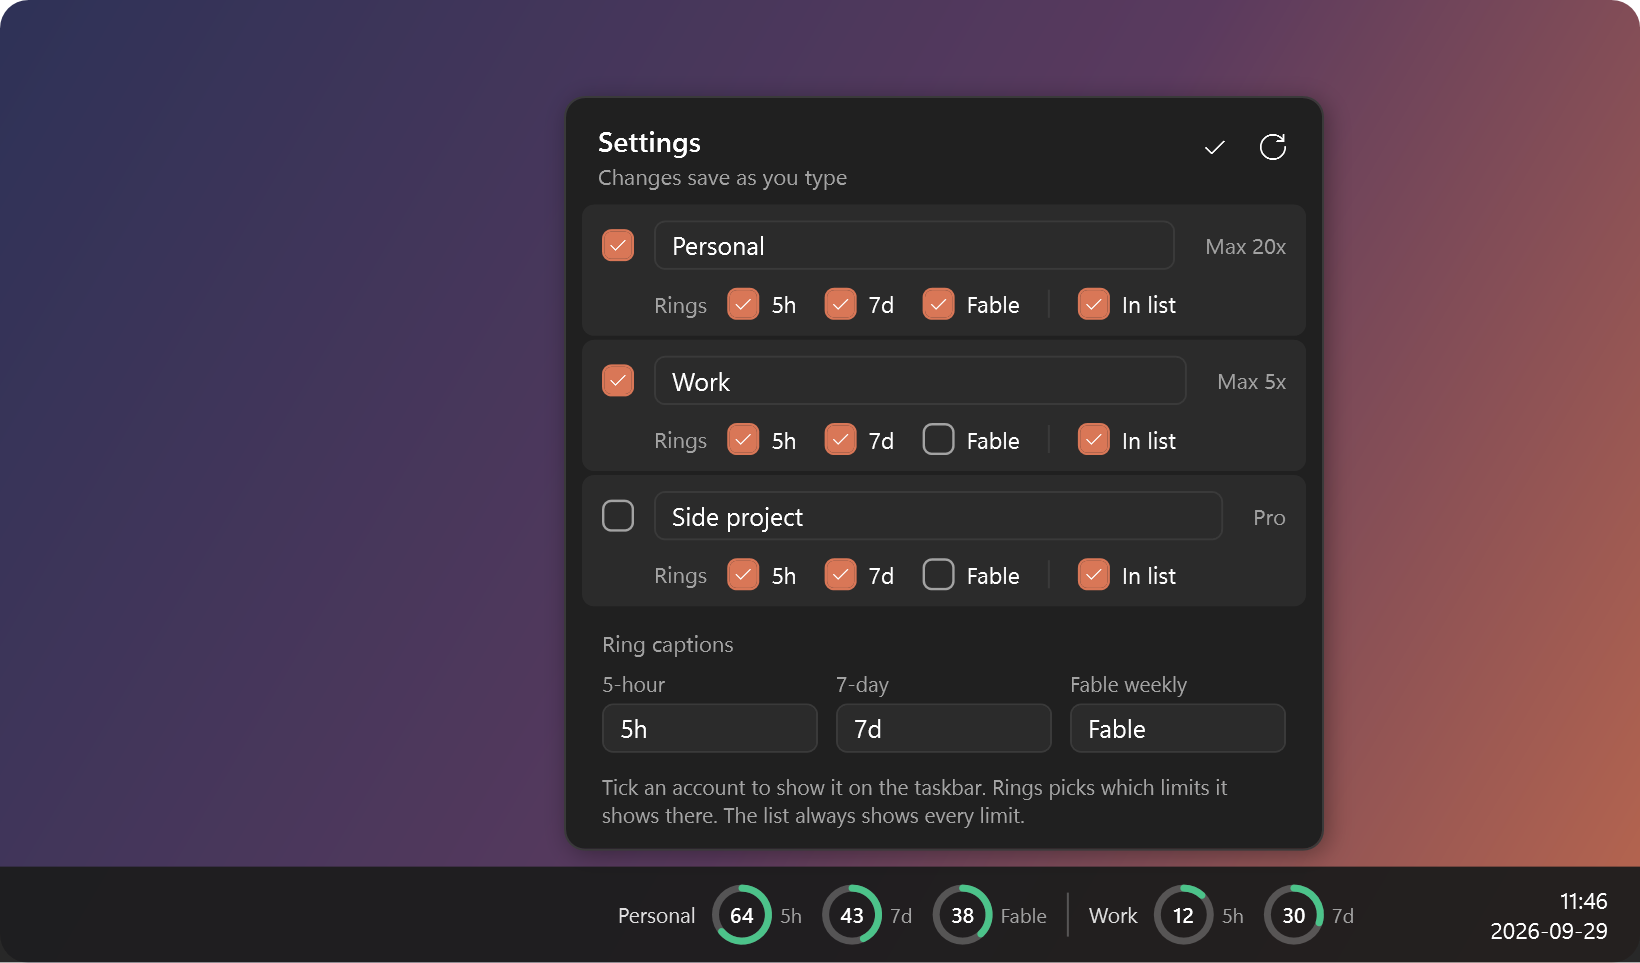
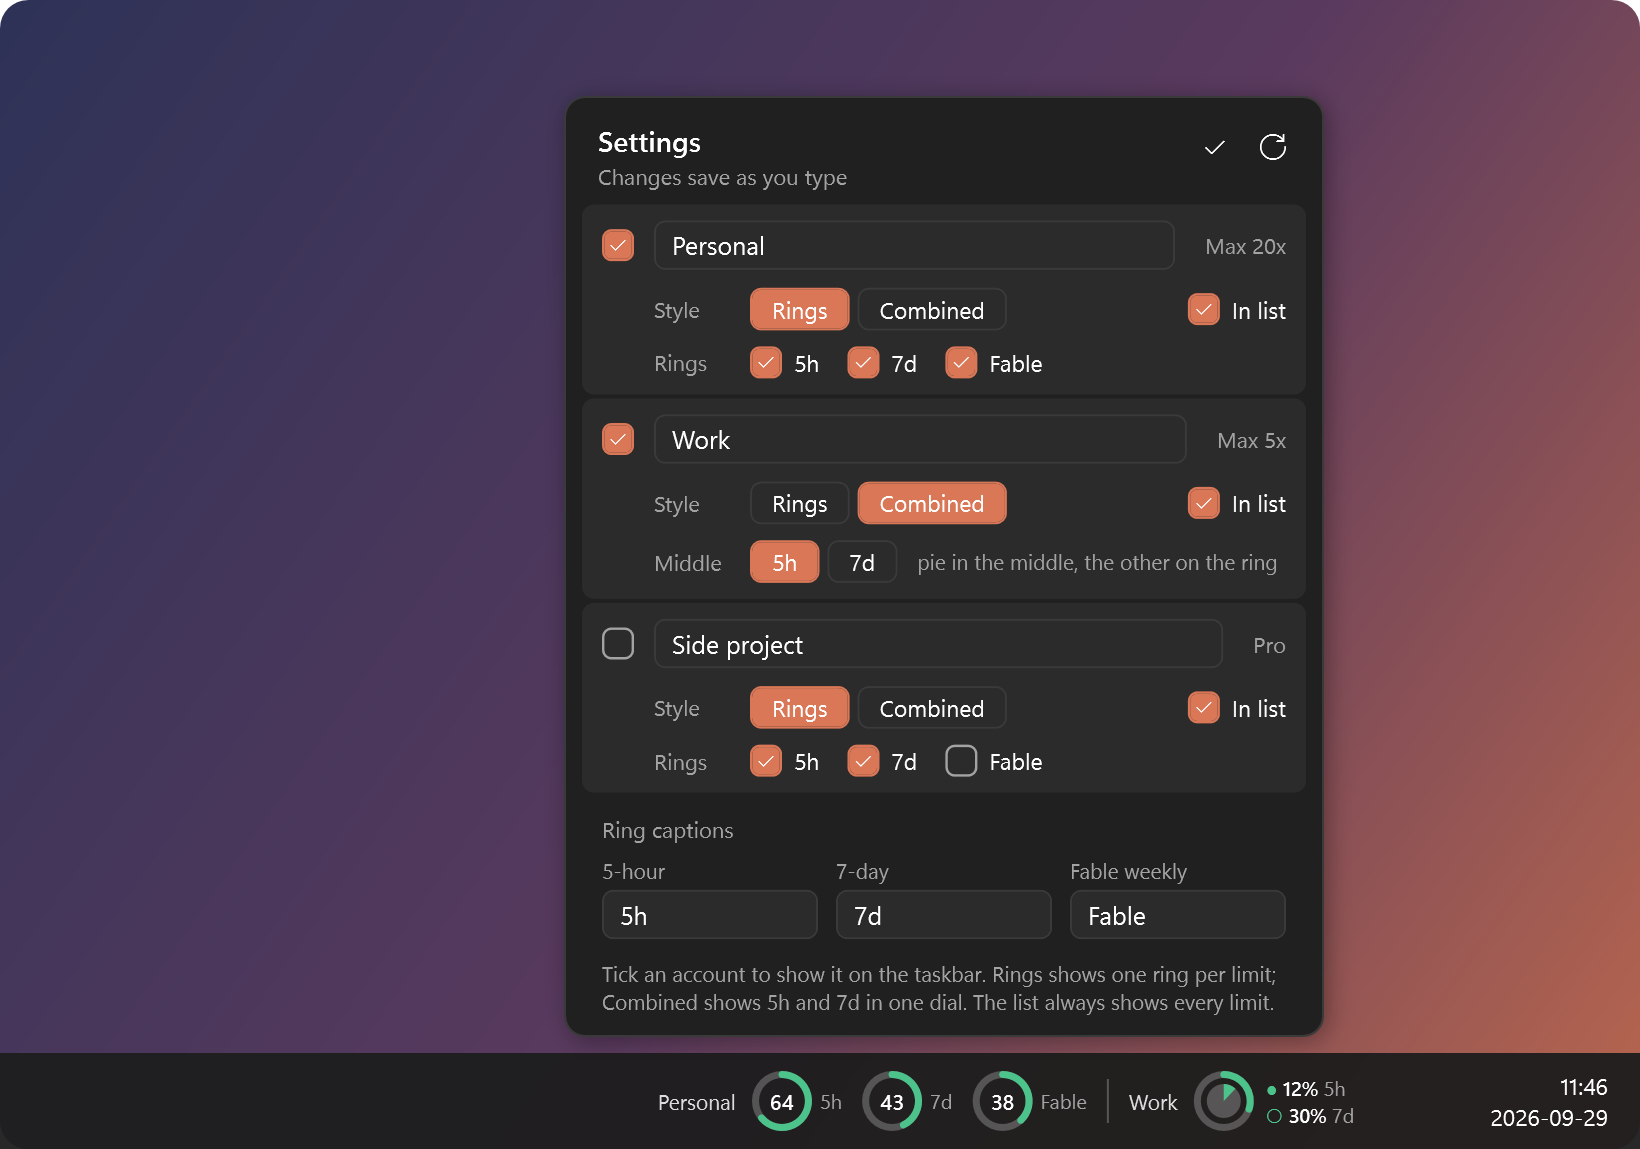
Combined style: pie + ring dial per account, swappable middle; 1.1.0

diff --git a/README.md b/README.md
@@ -22,7 +22,8 @@ One account or several, updated in the background, in one click.
 - **Multiple accounts.** Tick the accounts you want on the taskbar and they sit side by side, each with its name.
 - **All limits in one click.** The list shows each account's 5-hour window, 7-day window and Fable weekly limit, with countdowns to the resets.
 - **Finds your accounts.** On first run it picks up the Claude Code logins on your PC (and [xndr-claude](https://github.com/mrcsXndr/xndr-claude) accounts if you use it).
-- **Settings you can edit.** Rename accounts, choose which rings each one shows, and rename the ring captions.
+- **Two styles.** **Rings** gives each limit its own ring. **Combined** puts one limit as a pie in the middle and the other as the ring around it, with both percentages beside it. You choose which limit goes in the middle.
+- **Settings you can edit.** Rename accounts, choose each account's style and rings, and rename the ring captions.
 - **Stays out of the way.** Refreshes every 30 minutes, and at most once a minute however you trigger it. Catches up after sleep. Hides during full-screen apps. Follows the light or dark theme.
 - **Nothing to install besides itself.** It's plain PowerShell and WPF, which ship with Windows, so there are no runtimes, services or admin rights involved.
 
@@ -53,7 +54,7 @@ Running either one again updates you to the latest release and keeps your settin
 | --- | --- |
 | **Click** the rings | Open the account list |
 | **Tick** an account | Show it on the taskbar |
-| **⚙ Settings** | Rename accounts, choose each one's rings, rename captions |
+| **⚙ Settings** | Rename accounts, pick Rings or Combined, choose rings, rename captions |
 | **⟳** | Refresh now (at most once a minute) |
 | **Ctrl + drag** | Move the rings along the taskbar |
 | **Right-click** | Refresh · Settings · Scan for accounts · Start with Windows · Uninstall · Exit |
@@ -82,7 +83,7 @@ Everything is stored in `%APPDATA%\claude-usage-widget\config.json`. To open it,
   "captions": { "5h": "5h", "7d": "7d", "fable": "Fable" },
   "accounts": [
     { "name": "claude-code", "label": "Personal", "source": "claude-code", "taskbar": true, "limits": ["5h", "7d", "fable"] },
-    { "name": "work",  "label": "Work",  "source": "xndr-claude" },
+    { "name": "work",  "label": "Work",  "source": "xndr-claude", "style": "combined", "pie": "5h" },
     { "name": "vault", "label": "Vault", "source": "command", "command": "op read op://Private/claude/token" },
     { "name": "ci",    "label": "CI",    "source": "env", "env": "CLAUDE_CI_TOKEN", "fable": false }
   ]
@@ -96,7 +97,7 @@ Everything is stored in `%APPDATA%\claude-usage-widget\config.json`. To open it,
 | `command` | Whatever the command prints, for example a password manager CLI. |
 | `env` | An environment variable. |
 
-`"fable": false` makes that account skip the Fable probe (see below).
+`"style": "combined"` shows 5h and 7d in one dial, and `"pie"` (`"5h"` or `"7d"`) picks which one goes in the middle. `"limits"` picks the rings in the Rings style. `"fable": false` makes that account skip the Fable probe (see below).
 </details>
 
 ## How it works
